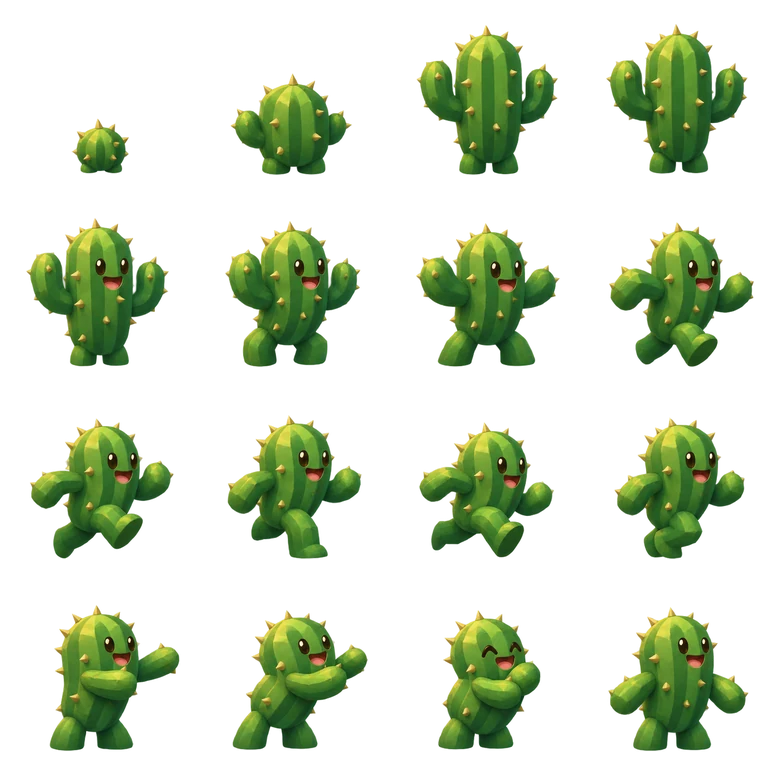
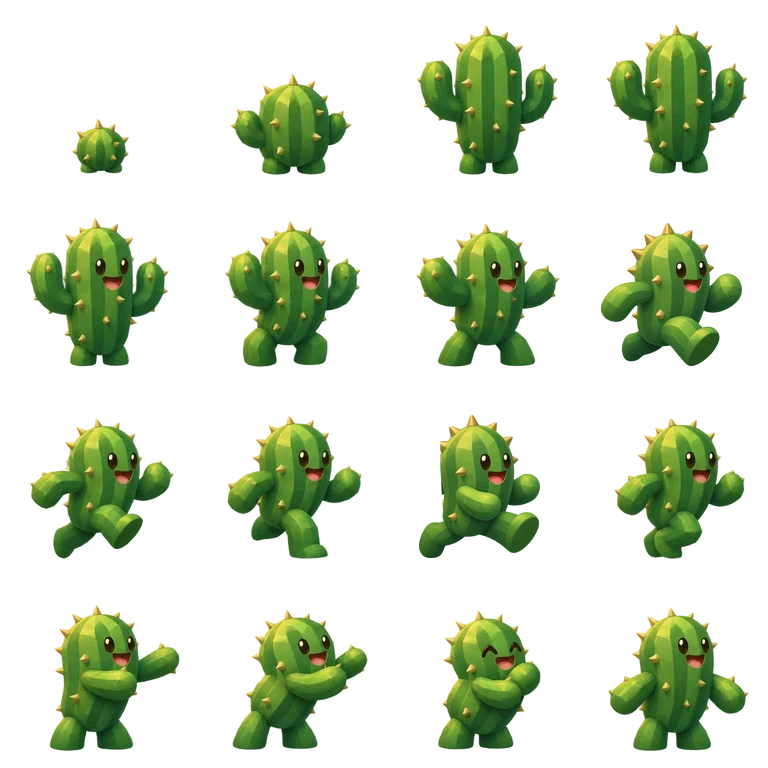
Alternate Thorny Hug lead legs while running

Changed region(s): [[0.7812, 0.2812, 1.0, 0.4688], [0.5312, 0.5312, 0.7188, 0.75]]

diff --git a/index.html b/index.html
@@ -1,1 +1,1 @@
-<!doctype html><html lang="en"><head><meta charset="utf-8"><meta name="viewport" content="width=device-width,initial-scale=1"><title>Wizardry : The Fall of Lupen’s Kingdom</title><meta http-equiv="refresh" content="0;url=./arena.html?v=0.299.1"><script>const query=new URLSearchParams(location.search);query.set('v','0.299.1');location.replace('./arena.html?'+query+location.hash);</script></head><body><a href="./arena.html?v=0.299.1">Enter Wizardry</a></body></html>
+<!doctype html><html lang="en"><head><meta charset="utf-8"><meta name="viewport" content="width=device-width,initial-scale=1"><title>Wizardry : The Fall of Lupen’s Kingdom</title><meta http-equiv="refresh" content="0;url=./arena.html?v=0.299.2"><script>const query=new URLSearchParams(location.search);query.set('v','0.299.2');location.replace('./arena.html?'+query+location.hash);</script></head><body><a href="./arena.html?v=0.299.2">Enter Wizardry</a></body></html>

diff --git a/assets/thorny-hug.js b/assets/thorny-hug.js
@@ -5,12 +5,13 @@
   const mix = (a,b,t) => a+(b-a)*t;
   const smooth = t => { t=clamp(t); return t*t*(3-2*t); };
   const hit = .78;
+  const runFrames = [7,9,10,11];
   const size = 192;
   const atlas = new Image();
   const listeners=[];
   const ready=()=>atlas.complete&&atlas.naturalWidth>0;
   atlas.onload=()=>listeners.splice(0).forEach(fn=>fn());
-  atlas.src="./assets/thorny-hug-frames.webp?v=0.299.1";
+  atlas.src="./assets/thorny-hug-frames.webp?v=0.299.2";
 
   function poly(ctx, points, color) {
     ctx.beginPath();
@@ -40,7 +41,7 @@
     const growth=smooth(p/.22);
     const fade=1-smooth((p-.92)/.08);
     const frame=p<.085?0:p<.155?1:p<.22?2:p<.345?3:p<.394?4:p<.44?5:
-      p<.48?6:p<.72?7+Math.floor(run*15)%5:p<hit?12:p<.82?13:p<.9?14:15;
+      p<.48?6:p<.72?runFrames[Math.floor(run*12)%runFrames.length]:p<hit?12:p<.82?13:p<.9?14:15;
     const scale=.87+.10*clamp((y-400)/200);
     ctx.save();
     ctx.translate(x,y);

diff --git a/arena.html b/arena.html
@@ -310,7 +310,7 @@
 <script src="./assets/clarity-strike.js?v=0.296.2" defer></script>
 <script src="./assets/cursed-hold.js?v=0.297.1" defer></script>
 <script src="./assets/reflective-ice.js?v=0.298.1" defer></script>
-<script src="./assets/thorny-hug.js?v=0.299.1" defer></script>
+<script src="./assets/thorny-hug.js?v=0.299.2" defer></script>
 <script src="./arena.js?v=0.299.1" defer></script>
 <script src="./assets/menu-music.js?v=0.282.2" defer></script>
 <script src="./assets/wizard-home-v135.js?v=0.284.9" defer></script>
